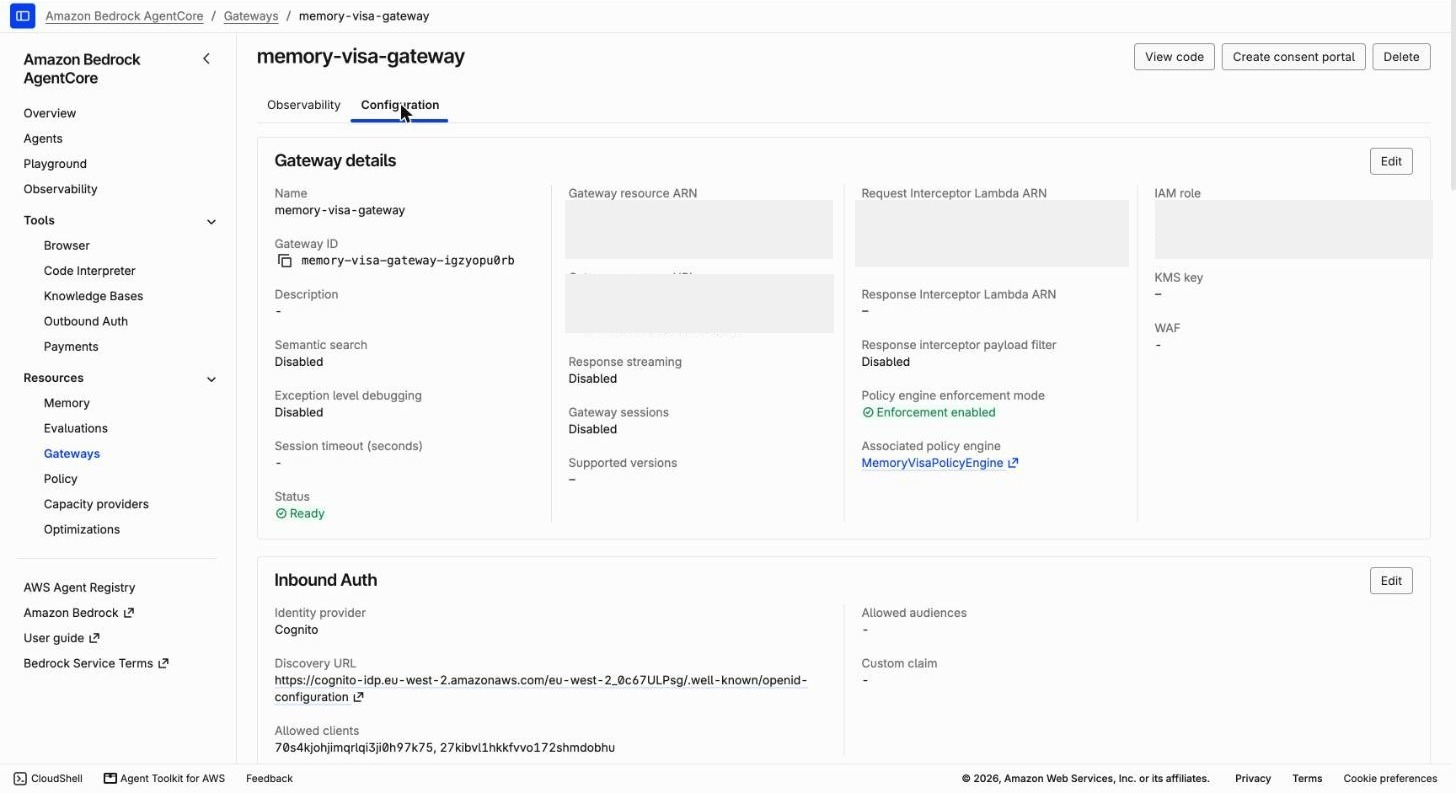
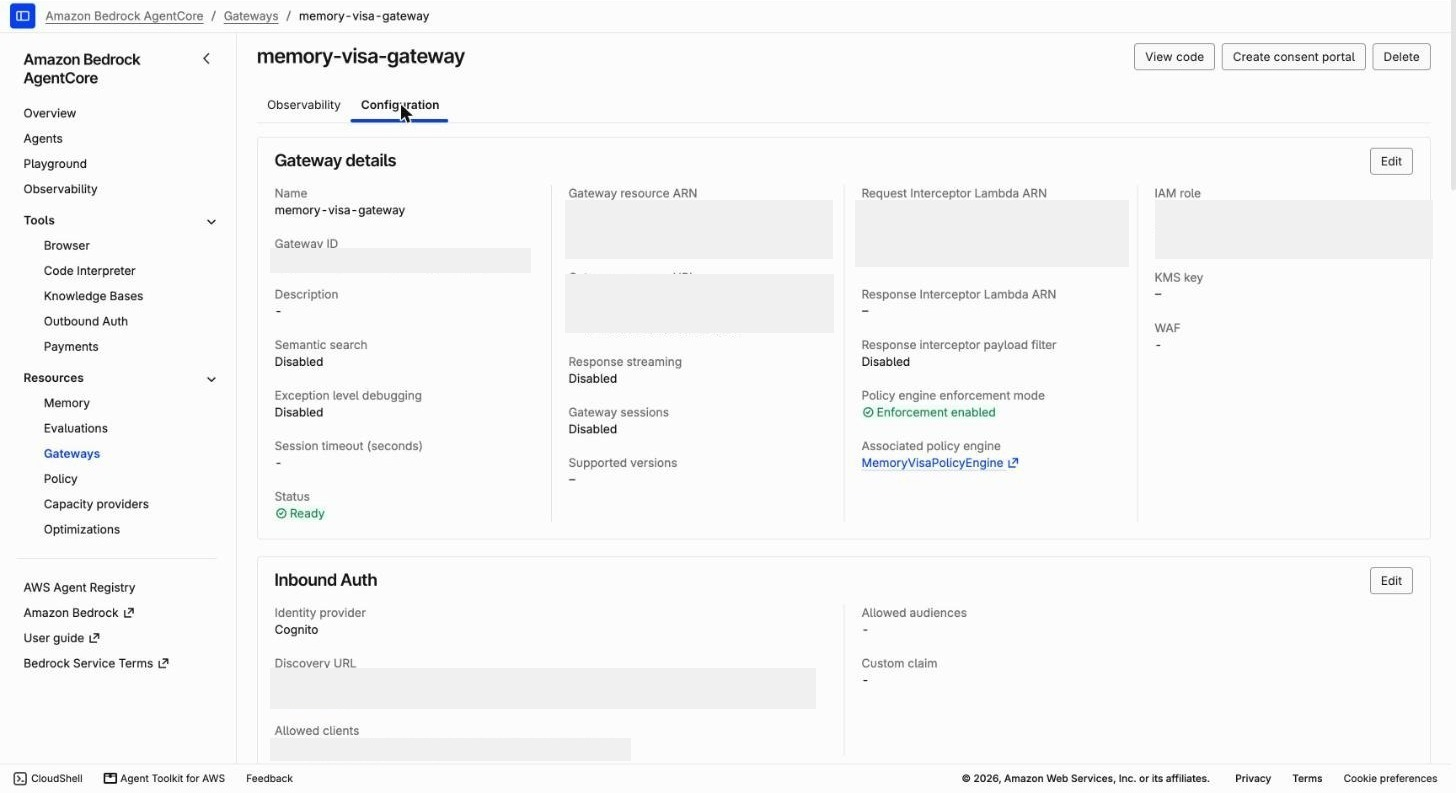
Screenshots: blank the client IDs, pool ID and Gateway ID; crop an unrelated table name out of the audit table shot
Review: what each of the four screenshots shows and what to do with it.

Changed region(s): [[0.1854, 0.8474, 0.5563, 0.9079], [0.1854, 0.9382, 0.4327, 0.9685], [0.1854, 0.3026, 0.34, 0.3329]]

diff --git a/REVIEW.md b/REVIEW.md
@@ -125,6 +125,22 @@ to do, so this is a gap in the design and not a bug in the code. Nobody could se
 | Remove the promise | Stop listing the one real Gateway tool among the tools a grant carries. A grant then only promises the demonstration tools, and nothing it promises is refused. Small: one line in `src/agents/domain_config.py`, and the tests and the blog table that name the tool | **Open, Jake.** The simplest way to have no loose end |
 | Join them | The Cedar policy learns about grants, so a grant with tools opens the real tool | Not planned. It is the Dogwood question: a policy sees one caller's session, so the grant would have to reach it through a tool call |
 
+### The four screenshots
+
+23 November 2026. Jake: "are my screenshots suitable, or wrong?" None is wrong. Two showed
+more than they should, and two no longer earn their place.
+
+| Screenshot | Says | Finding | State |
+|---|---|---|---|
+| `gateway-configuration.jpg` | Interceptor, enforcement on, Cognito sign-in | **It showed the two app client IDs, the user pool ID and the Gateway ID.** None is a secret, but together with the published usernames they are everything needed to try passwords against the live demo: the user client has no secret and allows password sign-in. The ARNs were already blanked | **Fixed.** Those three fields are blanked the same way. The old image is still in the git history |
+| `dynamodb-audit-trail.jpg` | The approval is in the audit table | **The table list showed `payments-ledger-non-prod`**, a table from another project in the same account. Also: the rows are cut off ("liam@roboti..."), and it is from before reads were recorded | **Cropped** to the scan and its two rows. Better: take it again with a grant that has a read in it, columns widened |
+| `cognito-users.jpg` | Three real users | It shows three users. There are four: Jordan is a real user and the post says so later | **Open, Jake.** Take it again, or leave it: the caption says "three" |
+| `gateway-observability.jpg` | 38 invocations, a 10.5% error rate | It proves little, it is from the first day, and two banners say "Observability has not been enabled" and "Tracing not enabled", which reads as unfinished | **Open, Jake.** I would drop it |
+| All four | | They are JPEGs, so the text is slightly soft. Each has the mouse pointer over a label. They are light console pages in a dark post | **Open.** PNG, pointer moved away, next time they are taken |
+
+Because the client IDs were public: use strong passwords for the demo users, and destroy the
+stack when you are not showing it.
+
 ### Tenth review: the whole blog, read end to end
 
 23 November 2026, at `ba07194`. About 6,800 words in 22 sections. Each finding is fixed
@@ -405,6 +421,7 @@ not need one.
 | 8f | Claude | ~~Deploy N10 and run its five checks, then deploy again with `-c departmentGate=active`~~ **Done, 23 November 2026: the gate is active and proven** | "N10: the department gate" |
 | 8g | Jake | `whoami`: deploy (`cdk deploy MemoryVisaAgentCore -c departmentGate=active`; only the tools Lambda changes), then capture Jordan again: request with `include_tools`, Maya approves, `whoami`, wait for the window, `whoami`. Paste both answers over the two transcripts in "What a Caller Actually Gets" and put the `live_gateway_tools` field back. Expected for Jordan: `domain_tools` lists the three Engineering tools while the grant is open, and `live_gateway_tools` says "refused for you ... your department is not set. A grant does not change this" both times. Also run `eng "$JORDAN"` once: expected refused | "Review of the N10 run", Y1 and Y2 |
 | 8h | Jake | Decide Y2: keep the grant's promise of `check_shipping_classification` and let `whoami` explain the refusal (as now), or remove that tool from what a grant carries | "Y2 in plain words" |
+| 8i | Jake | Screenshots: drop or retake the observability one; retake the Cognito users (four) and the audit table (with a read). Make sure the demo users have strong passwords | "The four screenshots" |
 | 9 | Both | When a model works on Bedrock: run all four beats live, time them, then the blog and the talk (stage 4) | "The demo, in four beats" |
 
 ### Fourth review: the stage 3 run
